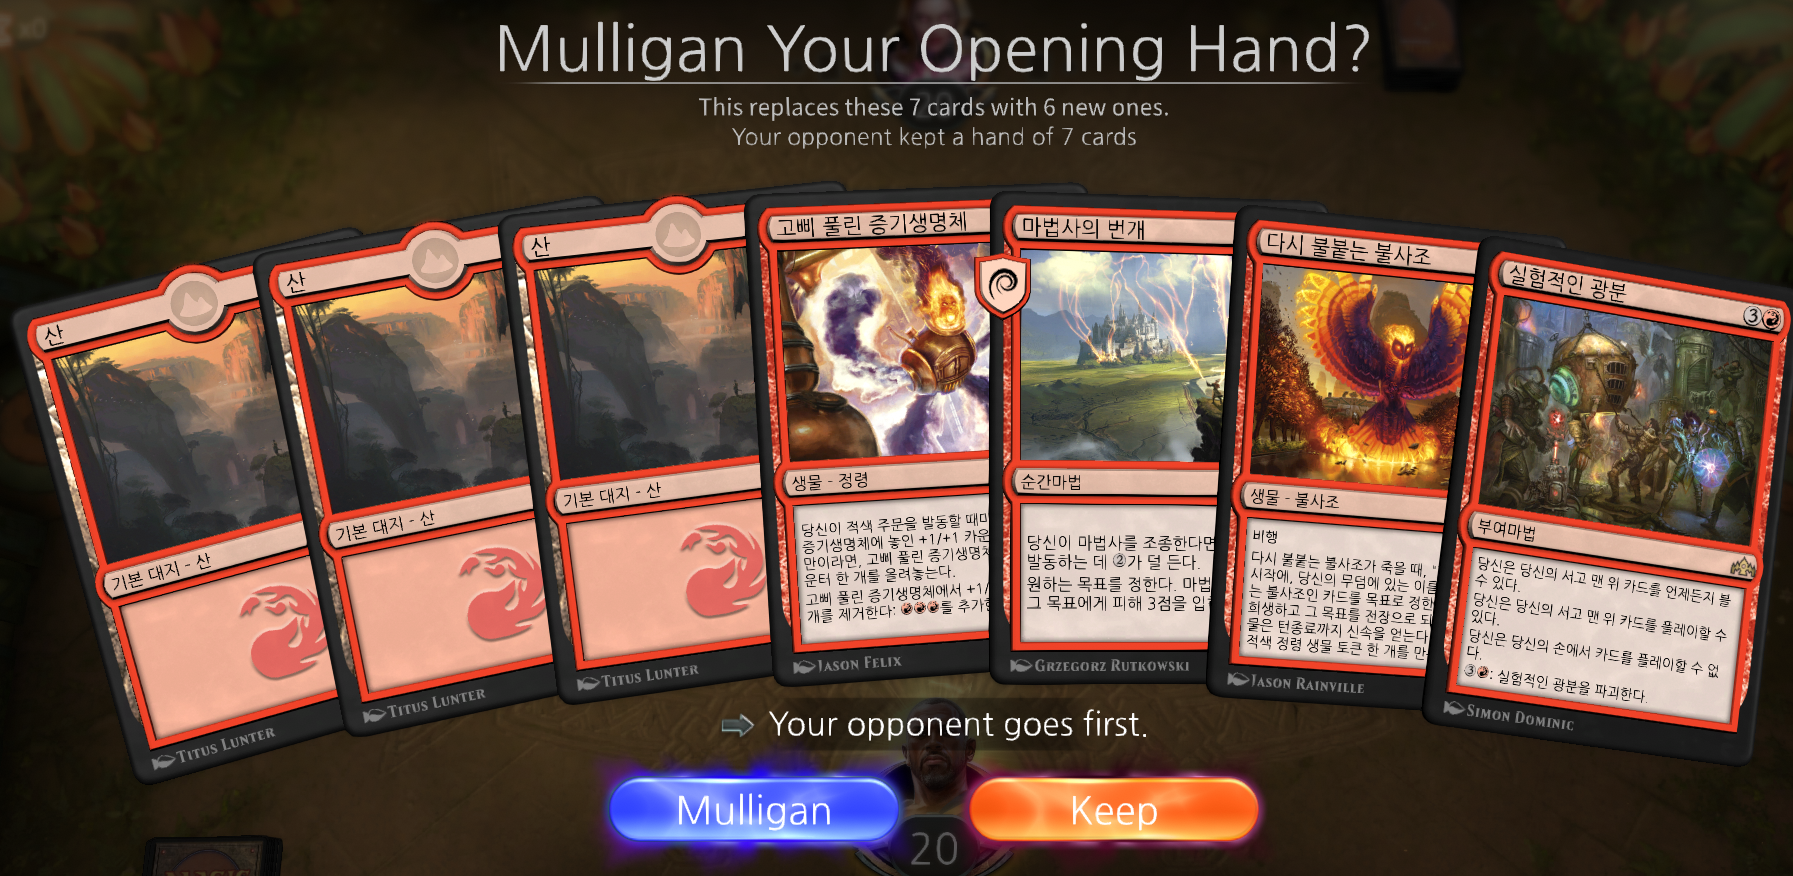
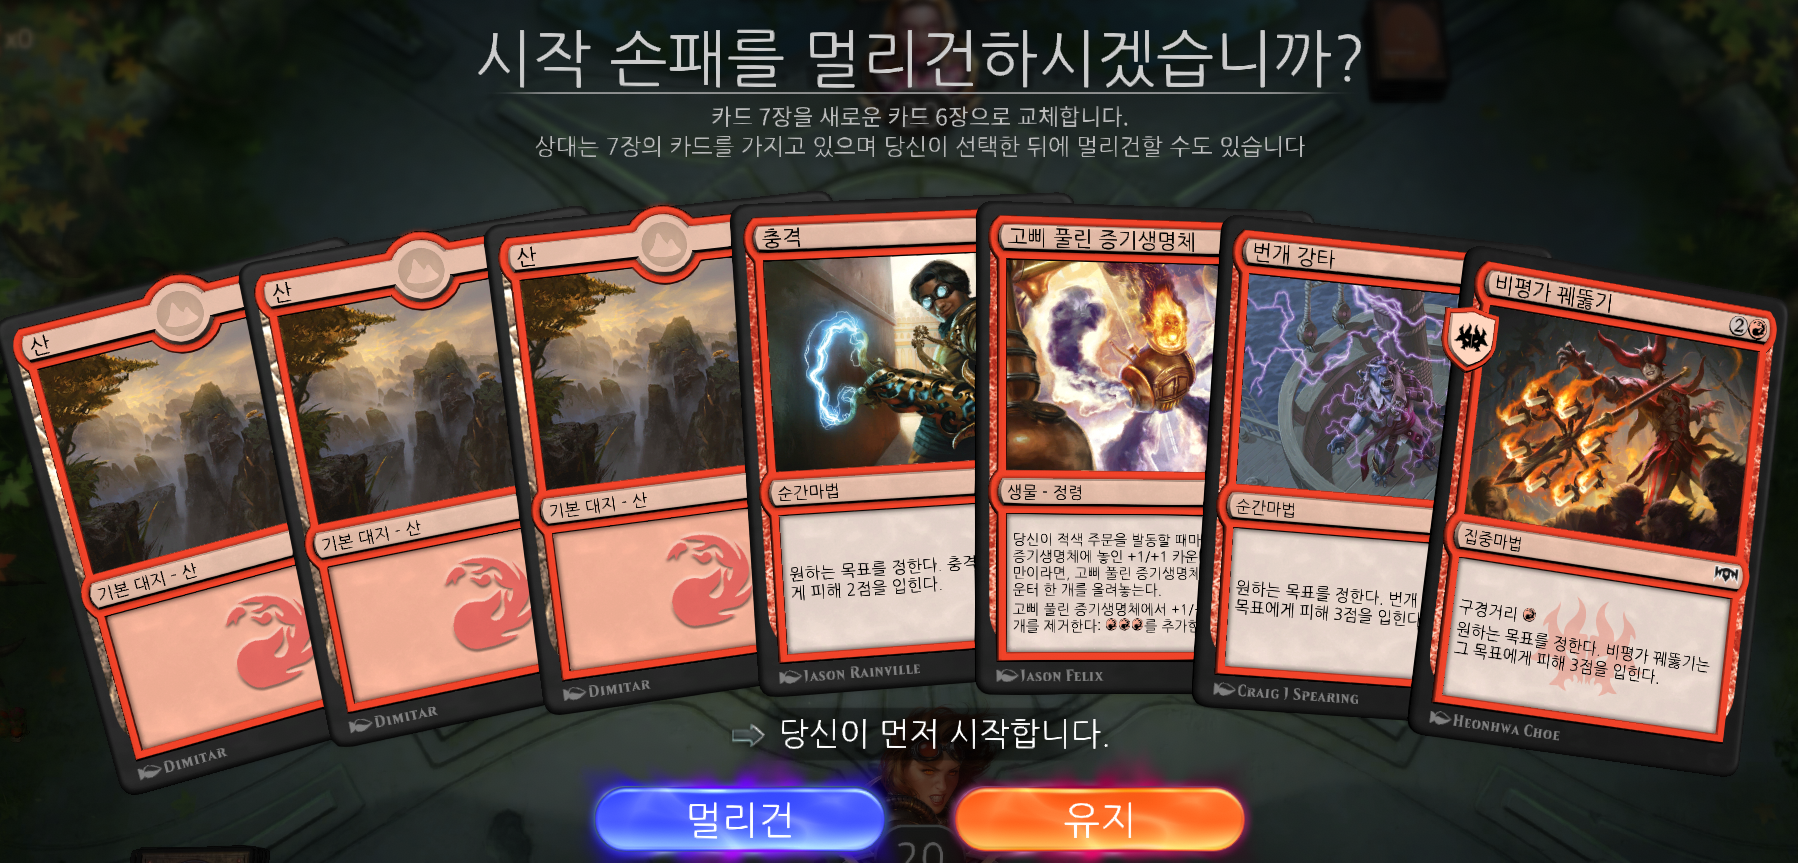
v290127 release 안내

diff --git a/_posts/2019-01-19-arena_kr_patch.md b/_posts/2019-01-19-arena_kr_patch.md
@@ -12,7 +12,7 @@ description: 매직 더 개더링 아레나 - 유저 한글패치
 ![kr2](/assets/images/arena/kr2.png)
 
 # 소개
-**매직 더 개더링 아레나**의 비공식 유저 한글패치입니다.
+**매직 더 개더링 아레나**의 유저 한글패치입니다.
 
 본 패치는 업데이트의 일원화를 위해 이 페이지에서만 배포됩니다. 퍼가실 때도 이 페이지를 링크해주시는 것을 권장합니다.
 
@@ -22,7 +22,6 @@ description: 매직 더 개더링 아레나 - 유저 한글패치
 
 # **주의사항**
 * 본 패치는 아레나 클라이언트를 수정합니다. 패치 적용시 이에 대한 위험을 감수하는 것으로 간주합니다.
-* **덱 Export 및 Import 기능이 동작하지 않게 됩니다.** 수동으로 덱빌딩을 하셔야 합니다.
 * 아레나 클라이언트의 폰트가 변경됩니다.
 * 아레나가 업데이트되면 다시 영어로 초기화됩니다. 이런 경우 새로운 패치가 나올 때까지 기다려주세요.
 * 원상태로 돌아갈 수 있도록 `롤백 방법`에 적힌 대로 원본 파일은 따로 백업해주세요.
@@ -32,7 +31,7 @@ description: 매직 더 개더링 아레나 - 유저 한글패치
 ------------------------------------
 
 # **다운로드**
- * [v190124_pre 다운로드](https://github.com/youbeebee/MTGArena-kr/releases/download/v190124_pre/MTGArena-kr_v190124_pre.zip)
+ * [v190127 다운로드](https://github.com/youbeebee/MTGArena-kr/releases/download/v190127_comp/MTGArena-kr_v190127_comp.zip)
 
 <br><br>
 
@@ -41,16 +40,18 @@ description: 매직 더 개더링 아레나 - 유저 한글패치
 # 패치적용방법
 ![패치방법](/assets/images/arena/patch1.png)
 
-※ **롤백을 위해 패치적용 전 원본 폴더 내의 `resources.assets`와 `sharedassets0.assets` 파일을 다른 곳에 백업해둘 것.**
+※ **롤백을 위해 패치적용 전 원본 폴더 내의 `resources.assets`와 `sharedassets0.assets`, `Managed/Assembly-CSharp.dll` 파일을 다른 곳에 백업해둘 것.**
 
- 1. 아래 링크에서 패치를 다운로드받는다.
+ 1. 위 링크에서 패치를 다운로드받는다.
  1. 압축을 푼 뒤 `modified` 폴더 내의 파일을 그대로 복사해서 아레나 설치폴더 내의 `MTGA_Data`에 복사한다. (덮어쓸까요?라는 질문에 yes)
- 1. 아레나를 실행한다.
+ 1. 아레나를 실행한다.  
+ ![옵션](/assets/images/arena/ko_option.png)
+ 1. `Option - Graphics`의 언어 설정에서 `Korean` 선택
 
  * 설치폴더(기본): `C:\Program Files (x86)\Wizards of the Coast\MTGA\MTGA_Data`
 
 ## 롤백방법
- 1. 백업해둔 원본 `resources.assets`와 `sharedassets0.assets` 파일을 설치폴더에 다시 덮어씌운다. 
+ 1. 백업해둔 원본 `resources.assets`와 `sharedassets0.assets` `Assembly-CSharp.dll` 파일을 설치폴더 원래 위치에 다시 덮어씌운다. 
  1. `TMPFontAsset` 폴더를 삭제한다.
  1. `<설치폴더>\Downloads\Data`에 있는 `data_loc_*.mtga` 파일을 삭제한다.
  1. 아레나를 다시 실행한다.
@@ -67,8 +68,9 @@ description: 매직 더 개더링 아레나 - 유저 한글패치
 
 ![btn](/assets/images/arena/btn_font2.png)
  * Q: 주황색 버튼의 그림자가 이상하게 보여요.
-   * A: 저도 이유를 모릅니다(...) 혹시 아시는 분은 알려주세요.
-   * 임시조치로 `옵션-그래픽-언어`에 들어가서 언어를 러시아어로 바꾸었다가 영어로 되돌리면 잠시 증상이 사라집니다.
+   * <del>A: 저도 이유를 모릅니다(...) 혹시 아시는 분은 알려주세요.</del>
+   * <del>임시조치로 `옵션-그래픽-언어`에 들어가서 언어를 러시아어로 바꾸었다가 영어로 되돌리면 잠시 증상이 사라집니다.</del>
+   * 1월 27일 버전부로 수정되었습니다.
 
 <br>
 
@@ -78,6 +80,12 @@ description: 매직 더 개더링 아레나 - 유저 한글패치
 ------------------------------------
 
 # Change Log
+### v190127_comp
+* **완전 한글화 버전 릴리즈**
+* 옵션에서 `한국어`와 `일본어` 선택 가능
+* 버튼 그림자 버그 수정
+* 덱 import/export 안되는 버그 수정
+
 ### v190124_pre
 * 1월 23일 아레나 업데이트로 기존 패치 만료. 카드만 우선 번역
 
